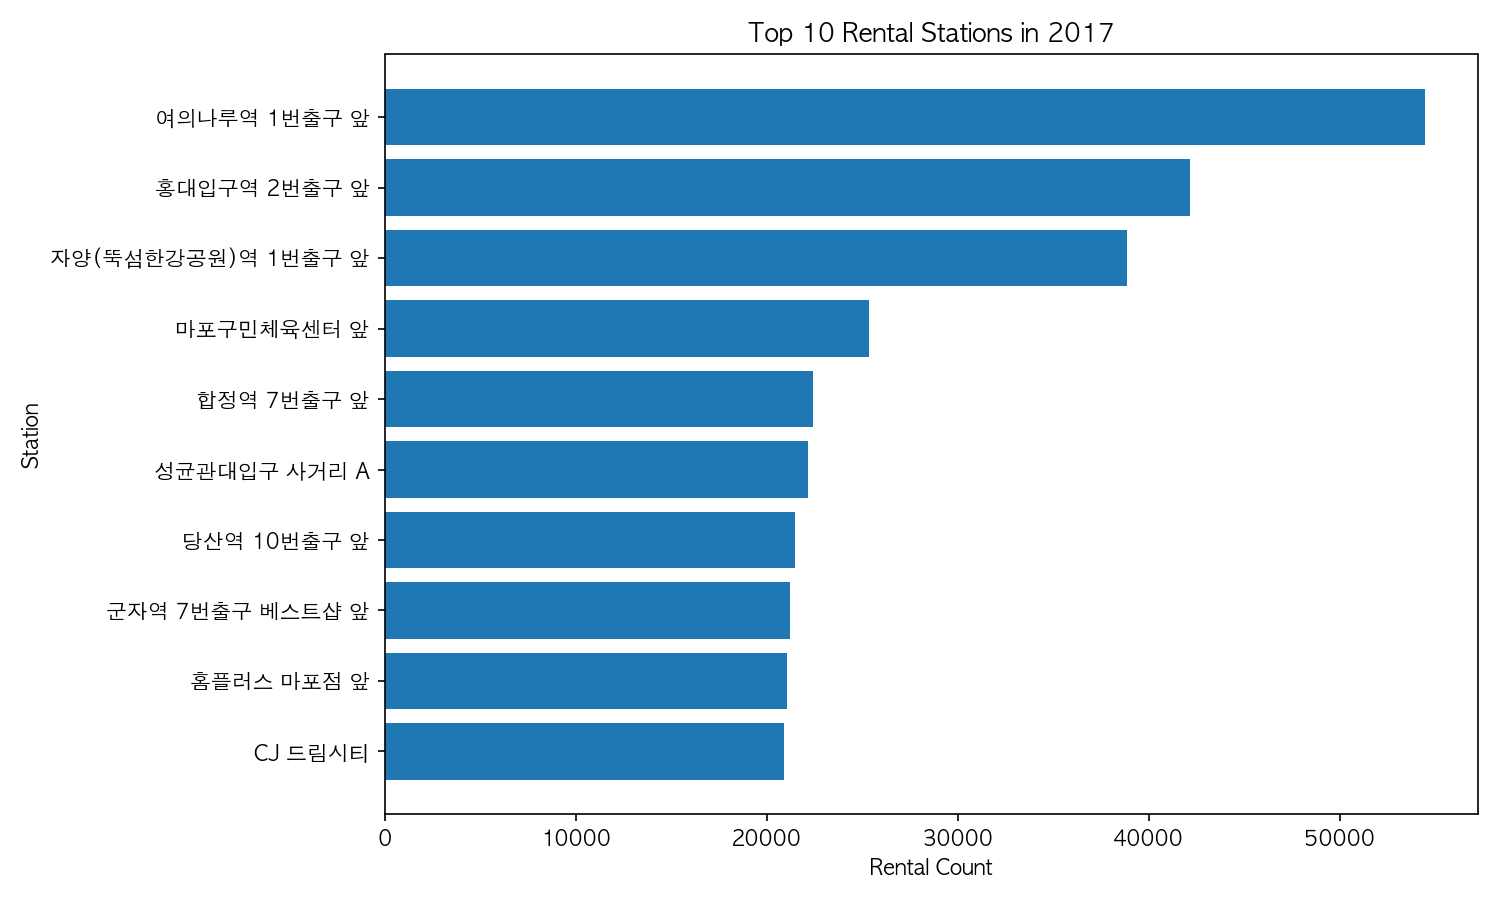
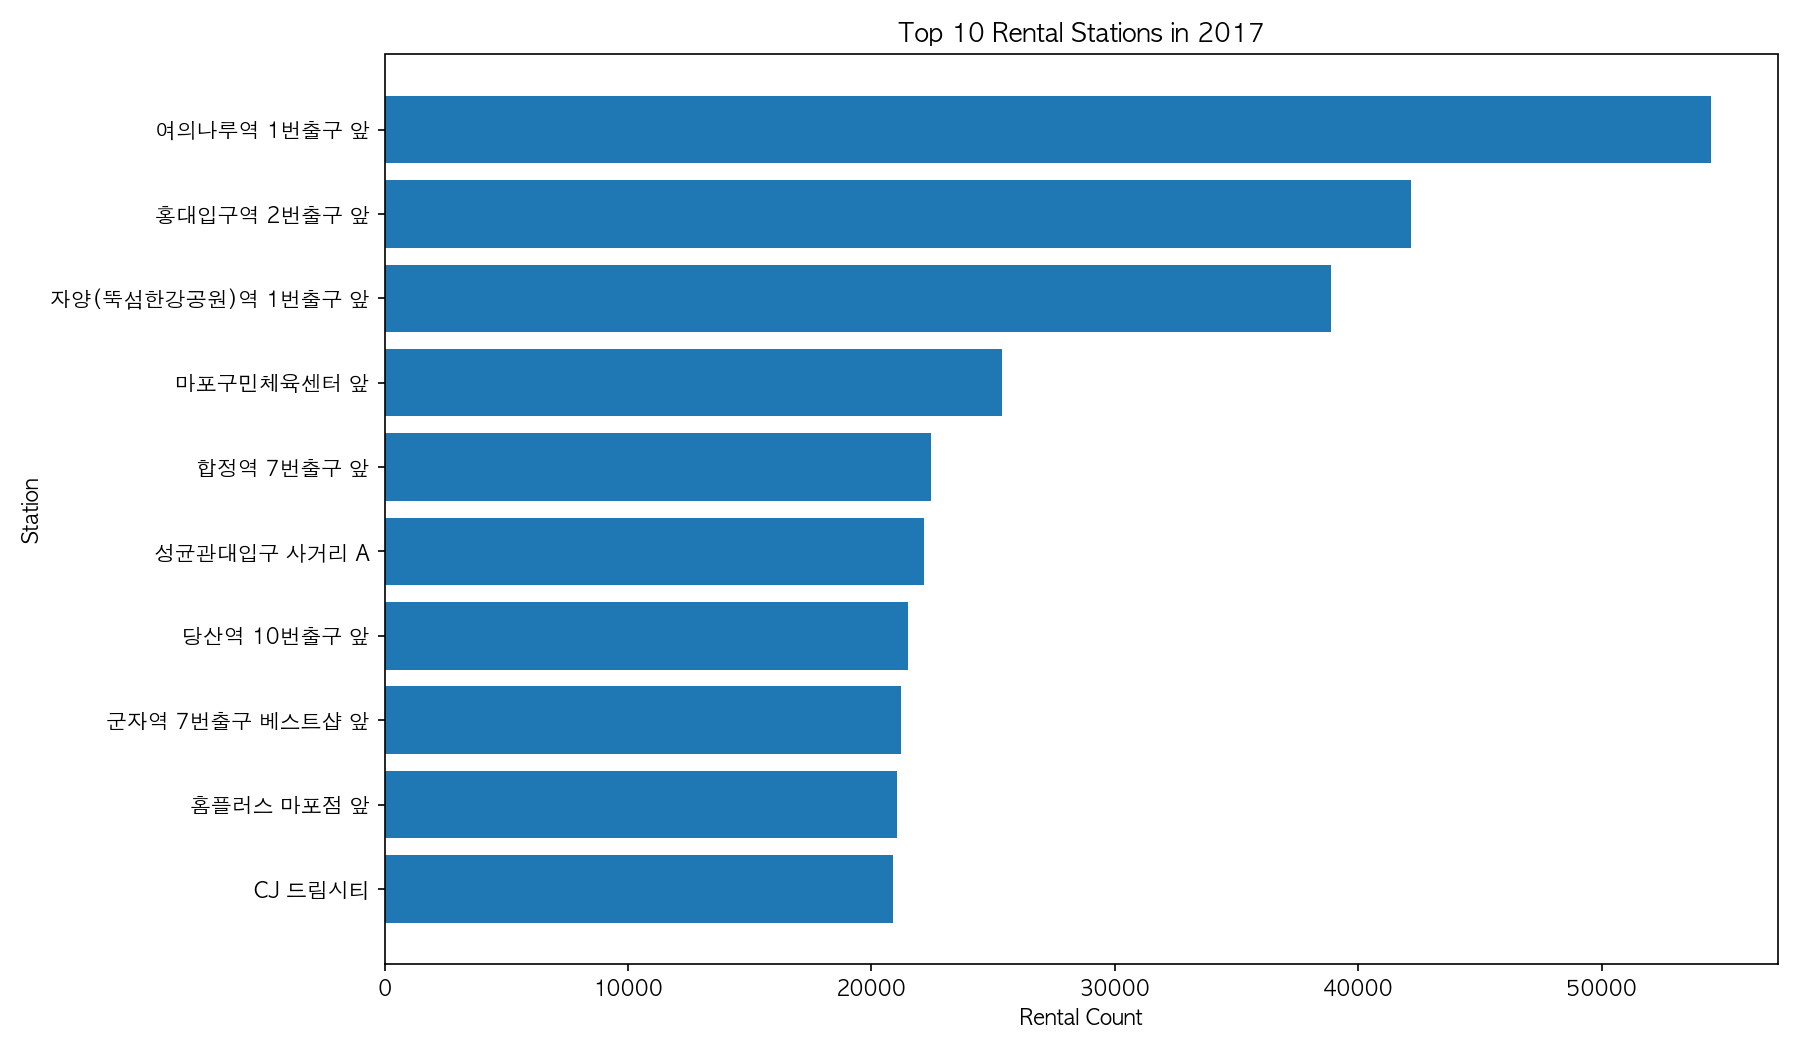
feat: add distribution analysis and updated figures

Changed region(s): [[0.0307, 0.0, 1.0, 0.9956], [0.0, 0.4356, 0.0307, 0.5289]]

diff --git a/src/analyze/visualize.py b/src/analyze/visualize.py
@@ -13,6 +13,7 @@ FIGURE_DIR = BASE_DIR / "results" / "figures"
 
 
 def set_korean_font():
+    # Mac에서 한글 대여소명이 깨지지 않도록 설정
     if platform.system() == "Darwin":
         plt.rcParams["font.family"] = "AppleGothic"
 
@@ -51,13 +52,41 @@ def save_station_top10():
     df = pd.read_csv(CSV_DIR / "station_top10.csv")
     df = df.sort_values("rental_count")
 
-    plt.figure(figsize=(10, 6))
+    plt.figure(figsize=(12, 7))
     plt.barh(df["rent_station_name"], df["rental_count"])
     plt.title("Top 10 Rental Stations in 2017")
     plt.xlabel("Rental Count")
     plt.ylabel("Station")
     plt.tight_layout()
     plt.savefig(FIGURE_DIR / "station_top10.png", dpi=150)
+    plt.close()
+
+
+def save_duration_distribution():
+    df = pd.read_csv(CSV_DIR / "duration_distribution.csv")
+
+    plt.figure(figsize=(10, 5))
+    plt.bar(df["duration_group"], df["rental_count"])
+    plt.title("Rental Duration Distribution in 2017")
+    plt.xlabel("Duration Group")
+    plt.ylabel("Rental Count")
+    plt.xticks(rotation=30)
+    plt.tight_layout()
+    plt.savefig(FIGURE_DIR / "duration_distribution.png", dpi=150)
+    plt.close()
+
+
+def save_distance_distribution():
+    df = pd.read_csv(CSV_DIR / "distance_distribution.csv")
+
+    plt.figure(figsize=(10, 5))
+    plt.bar(df["distance_group"], df["rental_count"])
+    plt.title("Rental Distance Distribution in 2017")
+    plt.xlabel("Distance Group")
+    plt.ylabel("Rental Count")
+    plt.xticks(rotation=30)
+    plt.tight_layout()
+    plt.savefig(FIGURE_DIR / "distance_distribution.png", dpi=150)
     plt.close()
 
 
@@ -69,6 +98,13 @@ def main():
     save_monthly_usage()
     save_hourly_usage()
     save_station_top10()
+
+    # 분포 CSV는 Spark 재실행 후 생성됨
+    if (CSV_DIR / "duration_distribution.csv").exists():
+        save_duration_distribution()
+
+    if (CSV_DIR / "distance_distribution.csv").exists():
+        save_distance_distribution()
 
     print("saved_figures")
     print(FIGURE_DIR)

diff --git a/src/pipeline/spark_analysis.py b/src/pipeline/spark_analysis.py
@@ -128,14 +128,6 @@ if __name__ == "__main__":
         .agg(F.count("*").alias("rental_count")) \
         .orderBy("distance_group")
 
-    # 결과 미리보기
-    monthly_usage.show(20, truncate=False)
-    hourly_usage.show(24, truncate=False)
-    station_top10.show(10, truncate=False)
-    usage_summary.show(truncate=False)
-    duration_distribution.show(truncate=False)
-    distance_distribution.show(truncate=False)
-
     # 결과 저장
     save_result(monthly_usage, f"{OUTPUT_BASE}/monthly_usage")
     save_result(hourly_usage, f"{OUTPUT_BASE}/hourly_usage")
@@ -143,6 +135,11 @@ if __name__ == "__main__":
     save_result(usage_summary, f"{OUTPUT_BASE}/usage_summary")
     save_result(duration_distribution, f"{OUTPUT_BASE}/duration_distribution")
     save_result(distance_distribution, f"{OUTPUT_BASE}/distance_distribution")
+
+    # 저장 후 간단히 확인
+    monthly_usage.show(20, truncate=False)
+    duration_distribution.show(truncate=False)
+    distance_distribution.show(truncate=False)
 
     print("analysis_done")
 